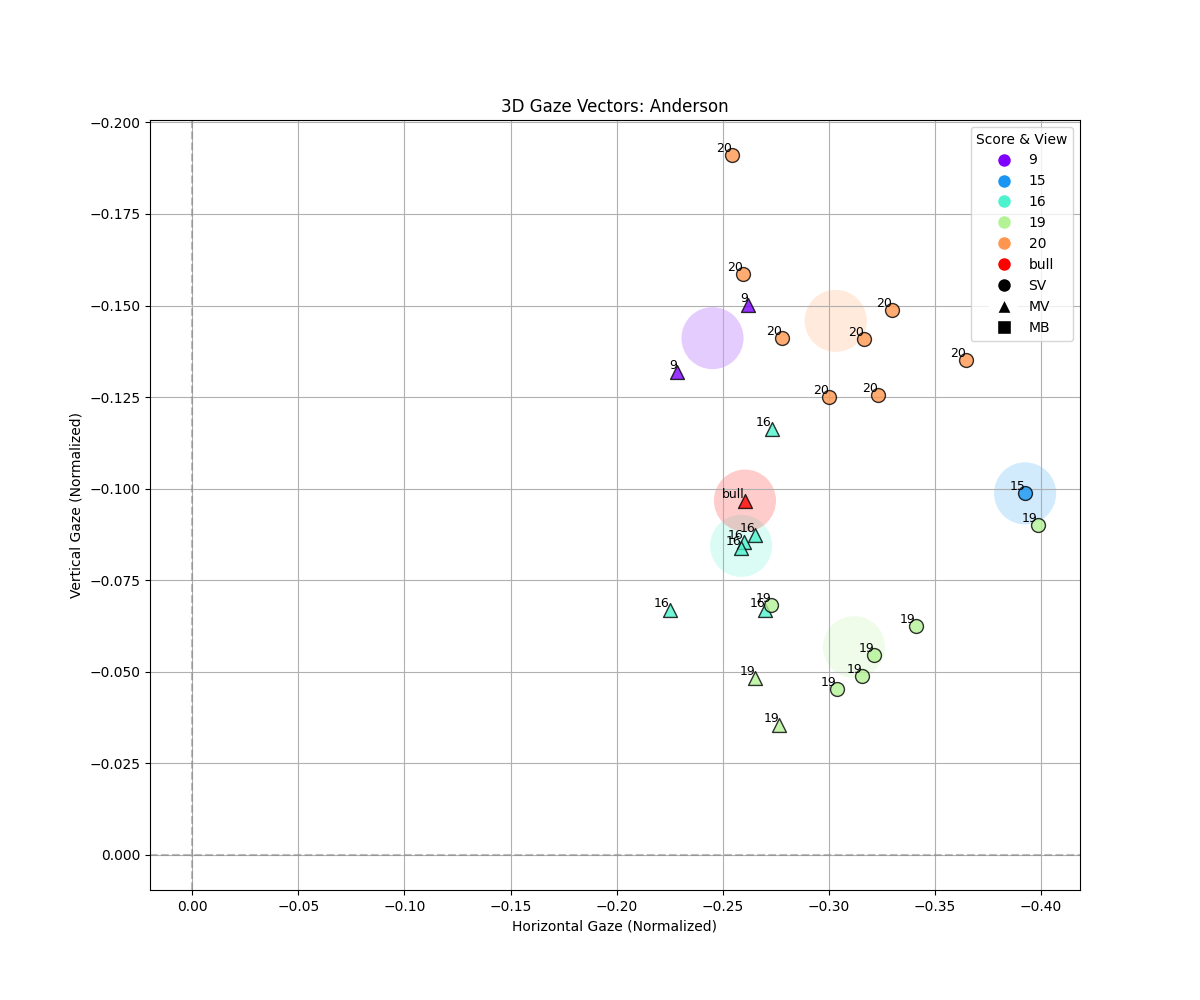
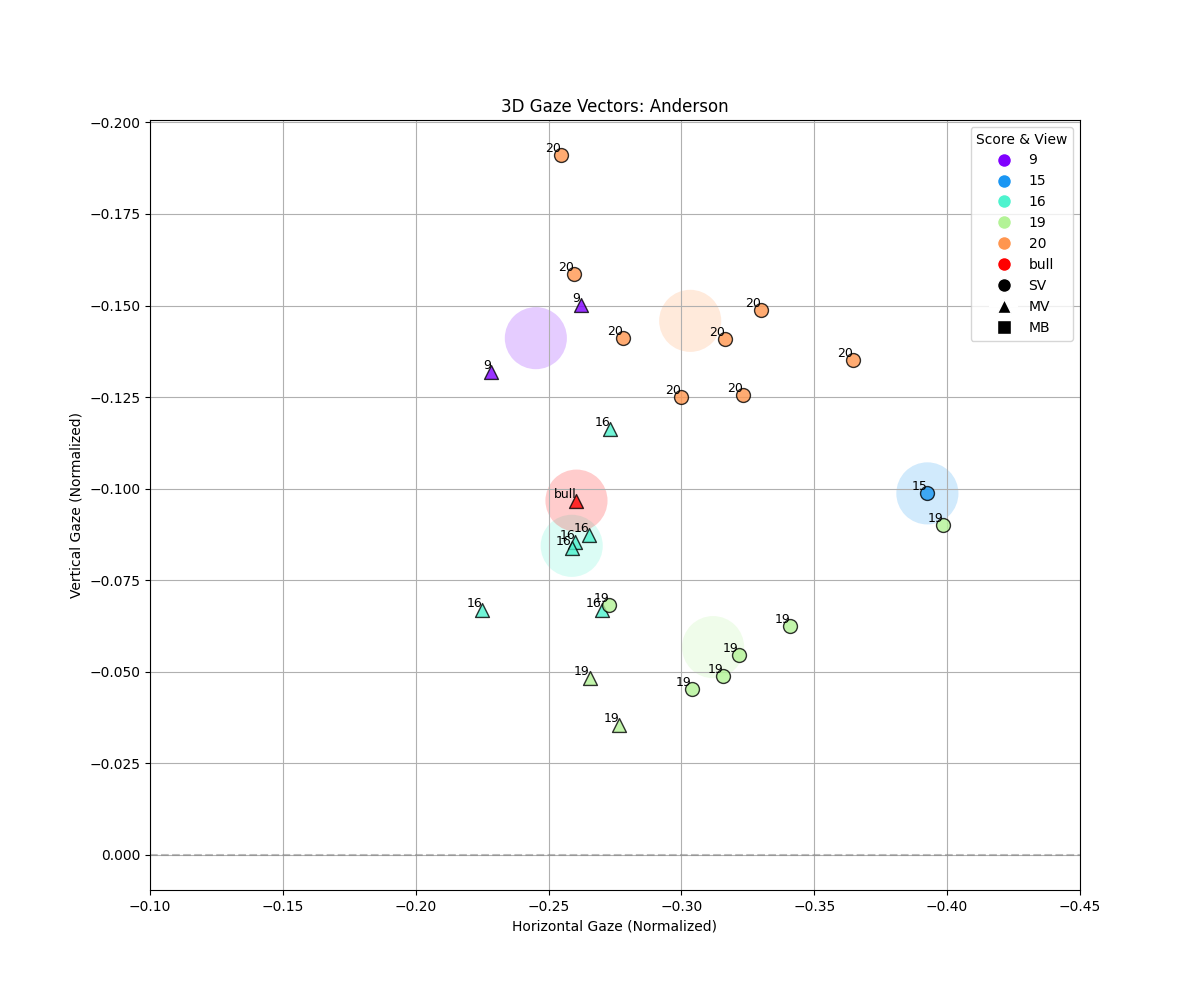
cleanup graphs

diff --git a/plot_gaze.py b/plot_gaze.py
@@ -87,7 +87,23 @@ def plot_for_player(player_code, data, output_suffix):
     plt.axhline(0, color='gray', linestyle='--', alpha=0.5)
     plt.axvline(0, color='gray', linestyle='--', alpha=0.5)
     plt.gca().invert_yaxis() 
-    plt.gca().invert_xaxis() 
+    
+    # Set X axis limits to zoom in (User request: start from -0.1)
+    # Since we want -0.1 on Left and more negative on Right (Inverted behavior)
+    # We set xlim(high, low)
+    plt.xlim(-0.1, -0.45)
+    
+    # plt.gca().invert_xaxis() # Already handled by xlim if we set it right? 
+    # Actually if we set xlim(-0.1, -0.45), matplotlib puts -0.45 on left?
+    # No, usually min is left.
+    # If we want -0.1 on Left, we should set xlim(-0.1, -0.45) AND invert? 
+    # Wait, previous code had invert_xaxis().
+    # If I set xlim(-0.1, -0.45), that implies -0.1 is Min and -0.45 is Max? No.
+    # Let's just keep invert_xaxis and set limits compatible with it.
+    # Or just set limits in the order we want.
+    # If I want -0.1 on Left and -0.45 on Right:
+    # plt.xlim(-0.1, -0.45) should do it.
+    
     plt.grid(True)
     
     output_path = os.path.join(os.path.dirname(INPUT_DIR), f"gaze_plot_{output_suffix}.png")
@@ -136,6 +152,122 @@ def main():
     # Generate plots for known players
     plot_for_player('a', data, 'anderson')
     plot_for_player('v', data, 'van_veen')
+    plot_combined_averages(data)
+
+def plot_combined_averages(data):
+    plt.figure(figsize=(12, 10))
+    
+    # Normalize 'bool' to 'bull' in data
+    for d in data:
+        if d['score'] == 'bool':
+            d['score'] = 'bull'
+            
+    # Unique scores across all data
+    scores = sorted(list(set(d['score'] for d in data)))
+    def sort_key(s):
+        if s.isdigit(): return int(s)
+        return 100 
+    scores.sort(key=sort_key)
+    
+    # Colormap
+    colors = cm.rainbow(np.linspace(0, 1, len(scores)))
+    score_color_map = {score: color for score, color in zip(scores, colors)}
+    
+    # Player markers
+    player_markers = {
+        'a': 'o', # Anderson = Circle
+        'v': 's', # Van Veen = Square
+        'default': 'x'
+    }
+    
+    players = sorted(list(set(d['player'] for d in data if d['player'])))
+    
+    for player in players:
+        player_data = [d for d in data if d['player'] == player]
+        if not player_data: 
+            continue
+            
+        # Calculate Player Center (Mean of all throws)
+        player_center_x = np.mean([d['x'] for d in player_data])
+        player_center_y = np.mean([d['y'] for d in player_data])
+        
+        # Plot Center
+        # marker = player_markers.get(player, 'x')
+        # plt.scatter(player_center_x, player_center_y, color='k', marker=marker, s=100, label=f"Center ({player})", zorder=5)
+        
+        # For this player, find average for each score
+        player_scores = sorted(list(set(d['score'] for d in player_data)))
+        
+        for score in player_scores:
+            score_data = [d for d in player_data if d['score'] == score]
+            if not score_data:
+                continue
+                
+            avg_x = np.mean([d['x'] for d in score_data])
+            avg_y = np.mean([d['y'] for d in score_data])
+            
+            color = score_color_map.get(score, 'gray')
+            marker = player_markers.get(player, 'x')
+            
+            # Draw dotted line from center to this score average
+            plt.plot([player_center_x, avg_x], [player_center_y, avg_y], color=color, linestyle=':', alpha=0.5, zorder=2)
+            
+            plt.scatter(avg_x, avg_y, color=color, marker=marker, s=300, alpha=0.9, edgecolor='k', zorder=3)
+            
+            # Text label calculation (offset slightly)
+            # Direction from center
+            dx = avg_x - player_center_x
+            dy = avg_y - player_center_y
+            dist = np.sqrt(dx*dx + dy*dy)
+            
+            # Distance to move text away from marker center
+            # Marker size 300 is roughly radius 10 points?
+            # In data coordinates, this depends on the scale.
+            # Let's try a fixed offset based on direction.
+            offset_scale = 0.005 # Increased offset
+            
+            if dist > 0:
+                off_x = ((dx / dist) * offset_scale) + 0.02
+                off_y = ((dy / dist) * offset_scale) + 0.0
+            else:
+                # If exactly at center (unlikely), offsets 0
+                off_x, off_y = 0.01, 0.01
+                
+            plt.text(avg_x + off_x, avg_y + off_y, f"{score}", fontsize=9, ha='center', va='center', color='black', fontweight='bold', zorder=5)
+
+
+    # Legend construction
+    from matplotlib.lines import Line2D
+    # Score Legend (Colors)
+    score_handles = [Line2D([0], [0], marker='o', color='w', markerfacecolor=c, markersize=10, label=s) for s, c in score_color_map.items()]
+    
+    # Player Legend (Markers)
+    player_handles = [
+        Line2D([0], [0], marker='o', color='w', markerfacecolor='gray', markersize=10, label='Anderson'),
+        Line2D([0], [0], marker='s', color='w', markerfacecolor='gray', markersize=10, label='Van Veen')
+    ]
+    
+    plt.legend(handles=score_handles + player_handles, title="Score & Player", loc='best', fontsize='small', ncol=2)
+
+    plt.title("Combined Average Gaze Vectors: Anderson vs Van Veen (Relative to Center)")
+    plt.xlabel("Horizontal Gaze (Normalized)")
+    plt.ylabel("Vertical Gaze (Normalized)")
+    plt.axhline(0, color='gray', linestyle='--', alpha=0.5)
+    plt.axvline(0, color='gray', linestyle='--', alpha=0.5)
+    
+    # Invert Y axis so Negative (Up) is Top
+    plt.gca().invert_yaxis() 
+    
+    # Set X axis limits to zoom in (User request: start from -0.1)
+    # Since we want -0.1 on Left and more negative on Right (Inverted behavior)
+    # We set xlim(high, low)
+    plt.xlim(-0.1, -0.45)
+    
+    plt.grid(True)
+    
+    output_path = os.path.join(os.path.dirname(INPUT_DIR), "gaze_plot_combined.png")
+    plt.savefig(output_path)
+    print(f"Plot saved to {output_path}")
 
 if __name__ == "__main__":
     main()
